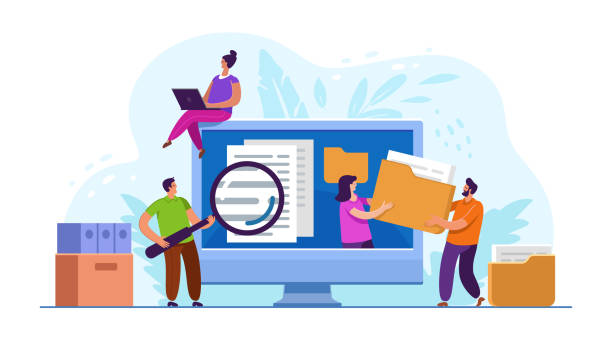
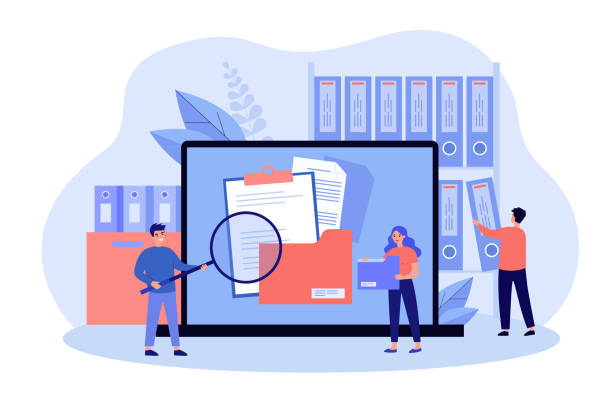
Update layout and content of main sections in index.html; remove unused CSS for imagen-menu

diff --git a/index.html b/index.html
@@ -30,62 +30,61 @@
         </nav>
     </div>
 
-    <!-- Contenido principal -->
+    <!-- Contenido principal tarjetas -->
     <main class="container my-5 text-center">
         <div class="row justify-content-center g-4">
+
             <!-- Proveedor -->
-            <div class="col-6">
-                <a href="proveedor.html" class="card-link">
-                    <div class="card card-hover bg-secondary text-light mx-auto" style="max-width: 300px;">
-                        <img  src="img/proveedor.jpg" class="card-img-top imagen-menu " alt="Proveedor">
-                        <div class="card-body">
+            <div class="col-12 col-sm-6 col-md-4 col-lg-3 d-flex">
+                <a href="proveedor.html" class="card-link w-100">
+                    <div class="card card-hover bg-secondary text-light mx-auto h-100">
+                        <img src="img/proveedor.jpg" class="card-img-top" alt="Proveedor">
+                        <div class="card-body d-flex flex-column">
                             <h5 class="card-title">Proveedor</h5>
-                            <p class="card-text">Registre y realize acciones referente a su proveedor escogido.</p>
+                            <p class="card-text">Registre y realice acciones referente a su proveedor escogido.</p>
                         </div>
                     </div>
                 </a>
             </div>
-
-            <!-- Orden de compra -->
-            <div class="col-6">
-                <a href="ordenCompra.html" class="card-link">
-                    <div class="card card-hover bg-secondary text-light mx-auto" style="max-width: 300px;">
-                        <img  src="img/ordenCompra.jpg" class="card-img-top imagen-menu " alt="Orden de compras">
-                        <div class="card-body">        
+            <!-- Orden de Comrpra -->
+            <div class="col-12 col-sm-6 col-md-4 col-lg-3 d-flex">
+                <a href="ordenCompra.html" class="card-link w-100">
+                    <div class="card card-hover bg-secondary text-light mx-auto h-100">
+                        <img src="img/ordenCompra.jpg" class="card-img-top" alt="Orden de compras">
+                        <div class="card-body d-flex flex-column">
                             <h5 class="card-title">Orden de compra</h5>
-                            <p class="card-text">Gestione orden de compras para sus necesidades</p>
+                            <p class="card-text">Gestione orden de compras para los requerimientos de su negocio.</p>
                         </div>
                     </div>
                 </a>
             </div>
-
             <!-- Pagos -->
-            <div class="col-6">
-                <a href="pago.html" class="card-link">
-                    <div class="card card-hover bg-secondary text-light mx-auto" style="max-width: 300px;">
-                        <img  src="img/factura.jpg" class="card-img-top imagen-menu " alt="Facturas">
-                        <div class="card-body">
+            <div class="col-12 col-sm-6 col-md-4 col-lg-3 d-flex">
+                <a href="pago.html" class="card-link w-100">
+                    <div class="card card-hover bg-secondary text-light mx-auto h-100">
+                        <img src="img/factura.jpg" class="card-img-top" alt="Facturas">
+                        <div class="card-body d-flex flex-column">
                             <h5 class="card-title">Pagos</h5>
-                            <p class="card-text">Gestiones sus facturas,remisiones y pagos de manera confiable.</p>
+                            <p class="card-text">Gestione sus facturas y remisiones de manera segura y verificada.</p>
                         </div>
                     </div>
                 </a>
             </div>
-
             <!-- Historial -->
-            <div class="col-6">
-                <a href="historial.html" class="card-link">
-                    <div class="card card-hover bg-secondary text-light mx-auto" style="max-width: 300px;">
-                        <img  src="img/historial.jpg" class="card-img-top imagen-menu " alt="Historial">
-                        <div class="card-body">
+            <div class="col-12 col-sm-6 col-md-4 col-lg-3 d-flex">
+                <a href="historial.html" class="card-link w-100">
+                    <div class="card card-hover bg-secondary text-light mx-auto h-100">
+                        <img src="img/historial.jpg" class="card-img-top" alt="Historial">
+                        <div class="card-body d-flex flex-column">
                             <h5 class="card-title">Historial</h5>
-                            <p class="card-text">Consulte el historial de compras de su empresa.</p>
+                            <p class="card-text">Consulte el historial de documentaciones contables de su empresa.</p>
                         </div>
                     </div>
                 </a>
             </div>
         </div>
     </main>
+
 
     <!-- Footer -->
     <footer class="bg-dark text-light">

diff --git a/styles.css b/styles.css
@@ -1,3 +1,4 @@
+/* Index */
 .body-general {
     background-color: #121212;
     color: #fff;
@@ -38,10 +39,7 @@ a.card-link {
     text-decoration: none;
     color: inherit;
 }
-.imagen-menu{
-    width: 298px;
-    height: 200px;
-}
+
 /* Proveedor */
 .proveedor {
     font-family: 'Segoe UI', Tahoma, Geneva, Verdana, sans-serif;
